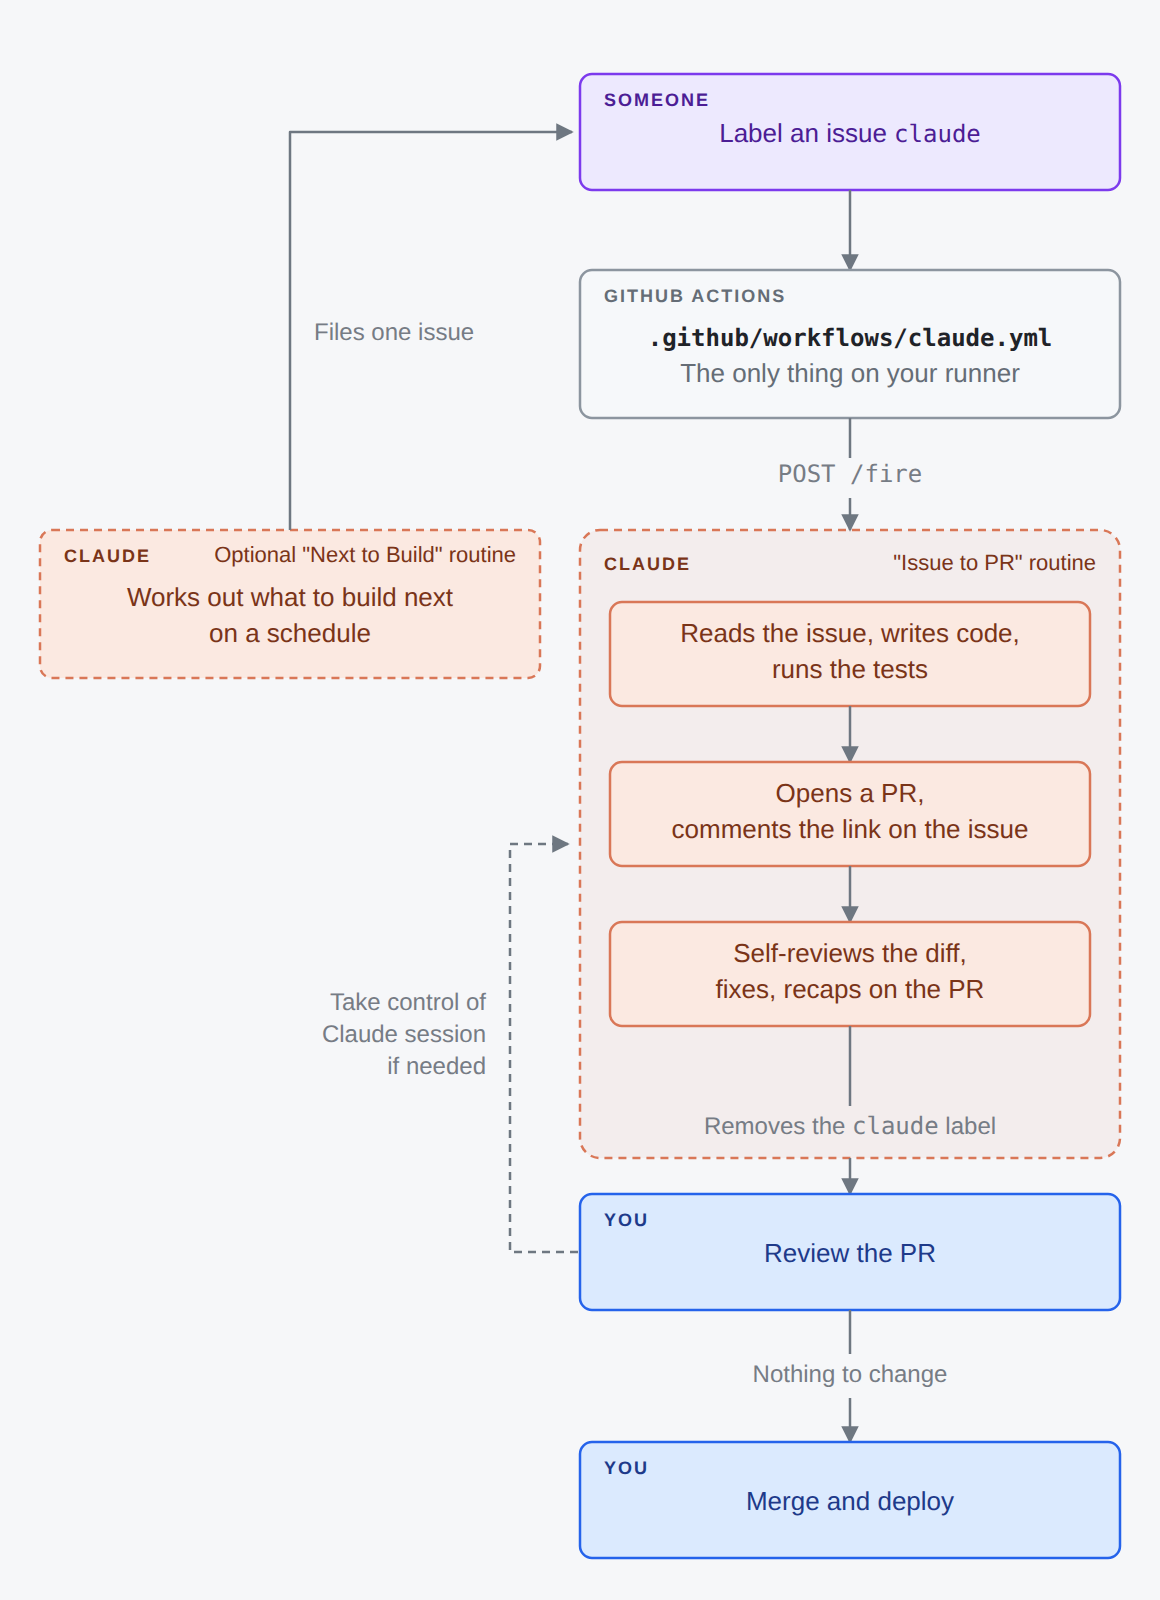
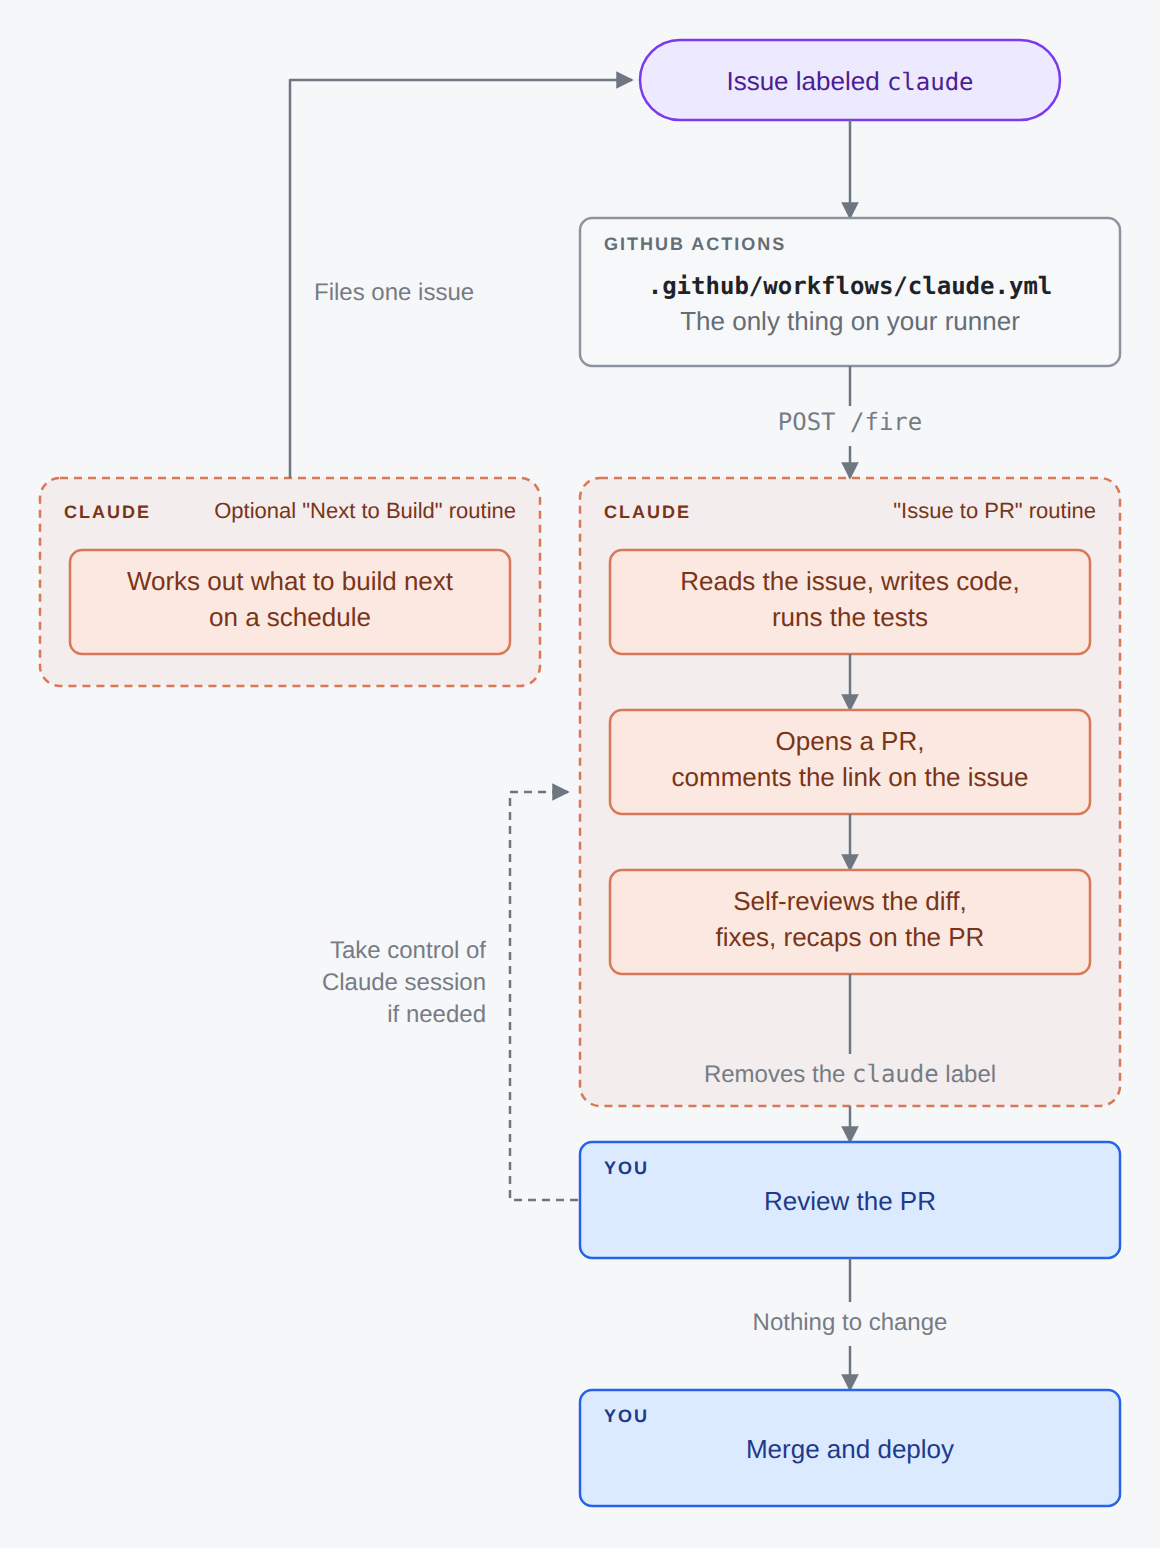
Draw the label as the trigger chip and match the two routine blocks
Claude-Session: https://claude.ai/code/session_01DQS8Sza5PYpUe81doZH9zT

diff --git a/README.md b/README.md
@@ -128,7 +128,7 @@ It labels the issue as your GitHub user through the Claude GitHub App, so the la
 <p align="center">
   <picture>
     <source media="(prefers-color-scheme: dark)" srcset="docs/how-it-works-dark.svg">
-    <img src="docs/how-it-works-light.svg" width="580" alt="Optionally, the Next to Build routine works out what to build next on a schedule and files one issue. Someone — a human, a bot, or that routine — labels an issue claude; a GitHub Actions workflow POSTs /fire; the Issue to PR routine reads the issue, writes code, runs the tests, opens a PR, self-reviews it and removes the label. The human reviews the PR: if nothing needs to change they merge and deploy, otherwise they take control of the Claude session.">
+    <img src="docs/how-it-works-light.svg" width="580" alt="Optionally, the Next to Build routine works out what to build next on a schedule and files one issue. An issue labeled claude is the trigger, whether a human, a bot or that routine applies it; a GitHub Actions workflow POSTs /fire; the Issue to PR routine reads the issue, writes code, runs the tests, opens a PR, self-reviews it and removes the label. The human reviews the PR: if nothing needs to change they merge and deploy, otherwise they take control of the Claude session.">
   </picture>
   <br/><sub><a href="https://claude.ai/artifact/L4yVFvUXqjVQN1fyGa4hPv">Source</a></sub>
 </p>
